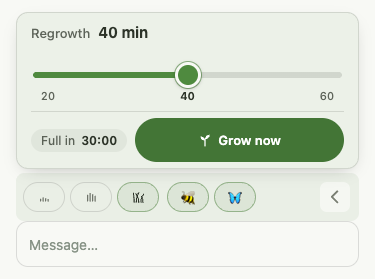
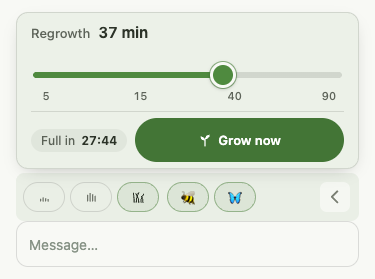
Let each meadow regrow in any whole minute from 5 to 90

diff --git a/MeadowTimer.tsx b/MeadowTimer.tsx
@@ -1,16 +1,13 @@
-import { type CSSProperties, useEffect, useId, useState } from "react";
+import { type CSSProperties, type KeyboardEvent, useEffect, useId, useRef, useState } from "react";
 import { copy } from "./meadow-copy";
-import { GROWTH_PERIODS } from "./meadow-prefs";
+import { anchorShare, minutesForKey, minutesFromInput, minutesToUnits, REGROW_ANCHORS, REGROW_MIN, REGROW_MAX, SCALE_UNITS } from "./regrow-scale";
 import type { MeadowCardState } from "./useMeadowCard";
 
 /**
  * Часы «Зарослей» над перевёрнутой карточкой: нативный range выбирает время
- * отрастания (20 / 40 / 60 мин), справа — отдельно — сколько осталось до зрелости.
+ * отрастания — любую целую минуту на шкале с опорами 5 / 20 / 40 / 80 (regrow-scale),
+ * ниже — отдельно — сколько осталось до зрелости.
  */
-
-const MIN = GROWTH_PERIODS[0];
-const MAX = GROWTH_PERIODS[GROWTH_PERIODS.length - 1];
-const STEP = GROWTH_PERIODS[1] - GROWTH_PERIODS[0];
 
 function timeLeft(deadline: number, now: number) {
   const seconds = Math.max(0, Math.ceil((deadline - now) / 1000));
@@ -55,7 +52,16 @@ export function MeadowTimer({ ui, onGrowNow }: { ui: MeadowCardState; onGrowNow(
   const id = useId();
   const now = useNow(Math.max(ui.readyAt, ui.flowerDeadline));
   const minutes = ui.regrowMinutes;
-  const fill = `${((minutes - MIN) / (MAX - MIN)) * 100}%`;
+  const units = minutesToUnits(minutes);
+  const dragging = useRef(false); // палец или мышь ведут ручку: минута — ближайшая к ним
+  const fill = `${(units / SCALE_UNITS) * 100}%`;
+  // Стрелки — ровно на минуту (деления шкалы мельче минуты), Home/End — края шкалы.
+  const onKeyDown = (event: KeyboardEvent<HTMLInputElement>) => {
+    const next = minutesForKey(event.key, minutes);
+    if (next === null) return;
+    event.preventDefault();
+    if (next !== minutes) ui.choosePeriod(next);
+  };
 
   return (
     <div className="tg-timer tg-control" role="group" aria-labelledby={`${id}-label`}>
@@ -68,17 +74,29 @@ export function MeadowTimer({ ui, onGrowNow }: { ui: MeadowCardState; onGrowNow(
           id={`${id}-range`}
           type="range"
           className="tg-range"
-          min={MIN}
-          max={MAX}
-          step={STEP}
-          value={minutes}
+          min={0}
+          max={SCALE_UNITS}
+          step={1}
+          value={units}
+          aria-valuemin={REGROW_MIN}
+          aria-valuemax={REGROW_MAX}
+          aria-valuenow={minutes} // value — деления шкалы, а читается минута
+          aria-valuenow={minutes}
           aria-valuetext={`${minutes} ${copy.mins}`}
           style={{ "--tg-fill": fill } as CSSProperties}
-          onChange={event => ui.choosePeriod(Number(event.target.value))}
+          onKeyDown={onKeyDown}
+          onPointerDown={() => { dragging.current = true; }}
+          onPointerUp={() => { dragging.current = false; }}
+          onPointerCancel={() => { dragging.current = false; }}
+          onLostPointerCapture={() => { dragging.current = false; }}
+          onChange={event => {
+            const next = minutesFromInput(Number(event.target.value), minutes, dragging.current);
+            if (next !== minutes) ui.choosePeriod(next);
+          }}
         />
         <div className="tg-timer-scale" aria-hidden="true">
-          {GROWTH_PERIODS.map(value => (
-            <span key={value} className={value === minutes ? "is-current" : undefined}>{value}</span>
+          {REGROW_ANCHORS.map((value, i) => (
+            <span key={value} className={value === minutes ? "is-current" : undefined} style={{ left: `${anchorShare(i) * 100}%` }}>{value}</span>
           ))}
         </div>
       </div>

diff --git a/regrow-scale.ts b/regrow-scale.ts
@@ -1,0 +1,57 @@
+/**
+ * Шкала времени отрастания «Зарослей»: опорные отметки 5 / 15 / 40 / 90 минут стоят на
+ * равных интервалах, внутри интервала минуты распределены равномерно. Выбирается любая
+ * целая минута от 5 до 90.
+ *
+ * Нативный range работает в «делениях»: на каждый интервал — UNITS делений (кратно
+ * длине каждого интервала, поэтому каждая минута попадает точно в деление). Позиция
+ * ползунка непрерывна, минуты — целые, скачков между опорами нет.
+ */
+
+export const REGROW_ANCHORS = [5, 15, 40, 90] as const;
+const UNITS = 50; // НОК длин интервалов 10, 25 и 50 мин
+export const REGROW_MIN = REGROW_ANCHORS[0];
+export const REGROW_MAX = REGROW_ANCHORS[REGROW_ANCHORS.length - 1];
+export const SCALE_UNITS = UNITS * (REGROW_ANCHORS.length - 1);
+
+const clampMinutes = (m: number) => Math.max(REGROW_MIN, Math.min(REGROW_MAX, Math.round(m)));
+
+/** Минуты → деления ползунка. */
+export function minutesToUnits(minutes: number) {
+  const m = clampMinutes(minutes);
+  let i = 0;
+  while (i < REGROW_ANCHORS.length - 2 && m > REGROW_ANCHORS[i + 1]) i++;
+  const from = REGROW_ANCHORS[i], to = REGROW_ANCHORS[i + 1];
+  return i * UNITS + ((m - from) / (to - from)) * UNITS;
+}
+
+/** Деления ползунка → ближайшая целая минута. */
+export function unitsToMinutes(units: number) {
+  const u = Math.max(0, Math.min(SCALE_UNITS, units));
+  const i = Math.min(REGROW_ANCHORS.length - 2, Math.floor(u / UNITS));
+  const from = REGROW_ANCHORS[i], to = REGROW_ANCHORS[i + 1];
+  return clampMinutes(from + ((u - i * UNITS) / UNITS) * (to - from));
+}
+
+/**
+ * Новое значение из ползунка. Палец или мышь (dragging) дают ближайшую минуту. Шаг
+ * ассистивной технологии — одно деление — до следующей минуты не дотягивает; без
+ * перетаскивания такой шаг двигает ровно на минуту в его сторону.
+ */
+export function minutesFromInput(units: number, current: number, dragging = false) {
+  const next = unitsToMinutes(units);
+  if (dragging || next !== current) return next;
+  const delta = units - minutesToUnits(current);
+  return delta ? clampMinutes(current + Math.sign(delta)) : current;
+}
+
+/** Клавиши: стрелки — на минуту, Page — на 5 минут, Home/End — края шкалы. null — не наша клавиша. */
+export function minutesForKey(key: string, current: number): number | null {
+  const steps: Record<string, number> = { ArrowLeft: -1, ArrowDown: -1, ArrowRight: 1, ArrowUp: 1, PageDown: -5, PageUp: 5 };
+  if (key === "Home") return REGROW_MIN;
+  if (key === "End") return REGROW_MAX;
+  return key in steps ? clampMinutes(current + steps[key]) : null;
+}
+
+/** Положение опоры на шкале, 0..1. */
+export const anchorShare = (i: number) => i / (REGROW_ANCHORS.length - 1);

diff --git a/grass.css b/grass.css
@@ -329,7 +329,7 @@
 
 /* Часы «Зарослей» открываются над перевёрнутой карточкой: Back остаётся в своей точке,
    композер свободен. Сверху — время отрастания и отдельно — сколько до зрелости,
-   ниже — ползунок 20 / 40 / 60 мин со шкалой. */
+   ниже — ползунок 5 / 15 / 40 / 90 мин со шкалой. */
 .tg-timer {
   --tg-accent: #4f8a3f;
   --tg-ink: var(--foreground, #2c3328);
@@ -480,7 +480,7 @@
 .tg-timer-scale {
   position: relative;
   height: 16px;
-  margin: -8px 15px 0;
+  margin: -8px 13px 0; /* ровно половина ручки: метка под её центром */
   color: var(--tg-soft);
   font-size: 11px;
   font-variant-numeric: tabular-nums;
@@ -490,9 +490,7 @@
   top: 0;
   transform: translateX(-50%);
 }
-.tg-timer-scale span:nth-child(1) { left: 0; }
-.tg-timer-scale span:nth-child(2) { left: 50%; }
-.tg-timer-scale span:nth-child(3) { left: 100%; }
+/* Положение каждой опоры (5 / 15 / 40 / 90) задаёт MeadowTimer: они на равных интервалах. */
 .tg-timer-scale span.is-current { color: var(--tg-ink); font-weight: 650; }
 
 @media (prefers-color-scheme: dark) {

diff --git a/meadow-prefs.ts b/meadow-prefs.ts
@@ -1,3 +1,4 @@
+import { REGROW_MIN, REGROW_MAX } from "./regrow-scale";
 import type { GuestChoice } from "./meadow-visitors";
 
 /**
@@ -10,7 +11,10 @@ export type MeadowSize = "compact" | "full" | "overgrown";
 export const MEADOW_SIZES: readonly MeadowSize[] = ["compact", "full", "overgrown"];
 export type Guests = GuestChoice;
 
-export const GROWTH_PERIODS = [20, 40, 60] as const;
+export function isRegrowPeriod(minutes: number): boolean {
+  return Number.isInteger(minutes) && minutes >= REGROW_MIN && minutes <= REGROW_MAX;
+}
+
 const PERIOD_KEY = "bb-touch-grass:regrow-minutes";
 const SIZE_KEY = "bb-touch-grass:size";
 const GUESTS_KEY = "bb-touch-grass:guests";
@@ -41,7 +45,7 @@ function write(key: string, value: string) {
 
 export function loadRegrowMinutes(): number {
   const stored = Number(read(PERIOD_KEY));
-  return GROWTH_PERIODS.find(minutes => minutes === stored) ?? 40;
+  return isRegrowPeriod(stored) ? stored : 40;
 }
 
 export function saveRegrowMinutes(minutes: number) {

diff --git a/meadow-clock.ts b/meadow-clock.ts
@@ -1,5 +1,5 @@
 import { STUBBLE } from "./draw-blade";
-import { GROWTH_PERIODS } from "./meadow-prefs";
+import { isRegrowPeriod } from "./meadow-prefs";
 
 /**
  * Часы «Зарослей»: высота травы зависит только от реального времени (Date.now),
@@ -39,7 +39,7 @@ function isCut(entry: unknown): entry is [number, number] {
 function read(threadId: string): Saved | null {
   try {
     const raw = JSON.parse(window.localStorage.getItem(keyFor(threadId)) ?? "null") as Saved | null;
-    if (raw?.v !== 1 || !Number.isFinite(raw.s) || !GROWTH_PERIODS.some(p => p === raw.p) || !Array.isArray(raw.c)) return null;
+    if (raw?.v !== 1 || !Number.isFinite(raw.s) || !isRegrowPeriod(raw.p) || !Array.isArray(raw.c)) return null;
     return { ...raw, c: raw.c.filter(isCut) };
   } catch {
     return null;

diff --git a/README.ru.md b/README.ru.md
@@ -42,7 +42,7 @@ created: "2026-11-22"
 
 При первом запуске включены **«Заросли»**. Зрелая трава поднимается поверх сообщений примерно на треть видимой области чата. Нажми на верхушки, чтобы примять их. Выстриги просвет косой, и через него снова можно будет нажимать ссылки. Газонокосилка расчищает всю полосу. В этом режиме газонокосилка, пчела и бабочка крупнее.
 
-Сначала трава короткая. После полного покоса она снова вырастет за **40 минут реального времени**, даже если закрыть BB. У каждого чата на этом устройстве свои цветы, ягоды и прокосы. Размер, время роста и выбор гостей общие для всех чатов. В настройках луга видно, сколько осталось до полной высоты. Ползунком можно выбрать 20, 40 или 60 минут. Нажми **«Вырастить сейчас»**, чтобы сразу получить высокую траву в этом чате. После покоса снова пойдёт отсчёт.
+Сначала трава короткая. После полного покоса она снова вырастет за **40 минут реального времени**, даже если закрыть BB. У каждого чата на этом устройстве свои цветы, ягоды и прокосы. Размер, время роста и выбор гостей общие для всех чатов. В настройках луга видно, сколько осталось до полной высоты. Ползунком можно выбрать от 5 до 90 минут с шагом в минуту. Отметки 5, 15, 40 и 90 расположены на одинаковом расстоянии, поэтому короткие интервалы легче настроить пальцем. Нажми **«Вырастить сейчас»**, чтобы сразу получить высокую траву в этом чате. После покоса снова пойдёт отсчёт.
 
 ![Трава вырастает по нажатию кнопки, а косилка открывает сообщения под ней](docs/media/overgrown.gif)
 

diff --git a/README.md b/README.md
@@ -49,7 +49,7 @@ Butterflies visit the grass. Bees wait for open petals. A closed bud or a white 
 
 **Overgrown** is the default for a new installation. In this mode, the grass grows over the messages to about one third of the visible chat. Tap the standing blades to press them down. Cut a path with the scythe and you can tap links through that opening. The mower clears the full width. The mower, bee and butterfly appear larger in this mode.
 
-An Overgrown plot starts short. It reaches full height in **40 minutes of real time**, including time away from BB. Each thread remembers its own cut patches. Open the meadow settings to see the countdown. Drag the slider to choose a 20-, 40- or 60-minute growth period. Choose **Grow now** to fill this chat with tall grass immediately. Mowing starts the timer again.
+An Overgrown plot starts short. It reaches full height in **40 minutes of real time**, including time away from BB. Each thread remembers its own cut patches. Open the meadow settings to see the countdown. Choose any whole minute from 5 to 90. The slider marks 5, 15, 40 and 90 minutes, giving shorter periods more room for fine adjustments. Choose **Grow now** to fill this chat with tall grass immediately. Mowing starts the timer again.
 
 ![Grass grows on demand and a mower clears it to reveal the chat messages](docs/media/overgrown.gif)
 

diff --git a/PLUGIN_OVERVIEW.md b/PLUGIN_OVERVIEW.md
@@ -1,6 +1,6 @@
 ## The meadow
 
-Overgrown starts with short grass. Give it 40 minutes and the blades reach about a third of the chat. Open the sliders above the message box to see the countdown, choose 20, 40 or 60 minutes, or press **Grow now** to bring up the whole meadow. Each chat remembers its cuts while BB is closed.
+Overgrown starts with short grass. Give it 40 minutes and the blades reach about a third of the chat. Open the sliders above the message box to see the countdown, choose any growth period from 5 to 90 minutes in one-minute steps, or press **Grow now** to bring up the whole meadow. Each chat remembers its cuts while BB is closed.
 
 ## Play
 
